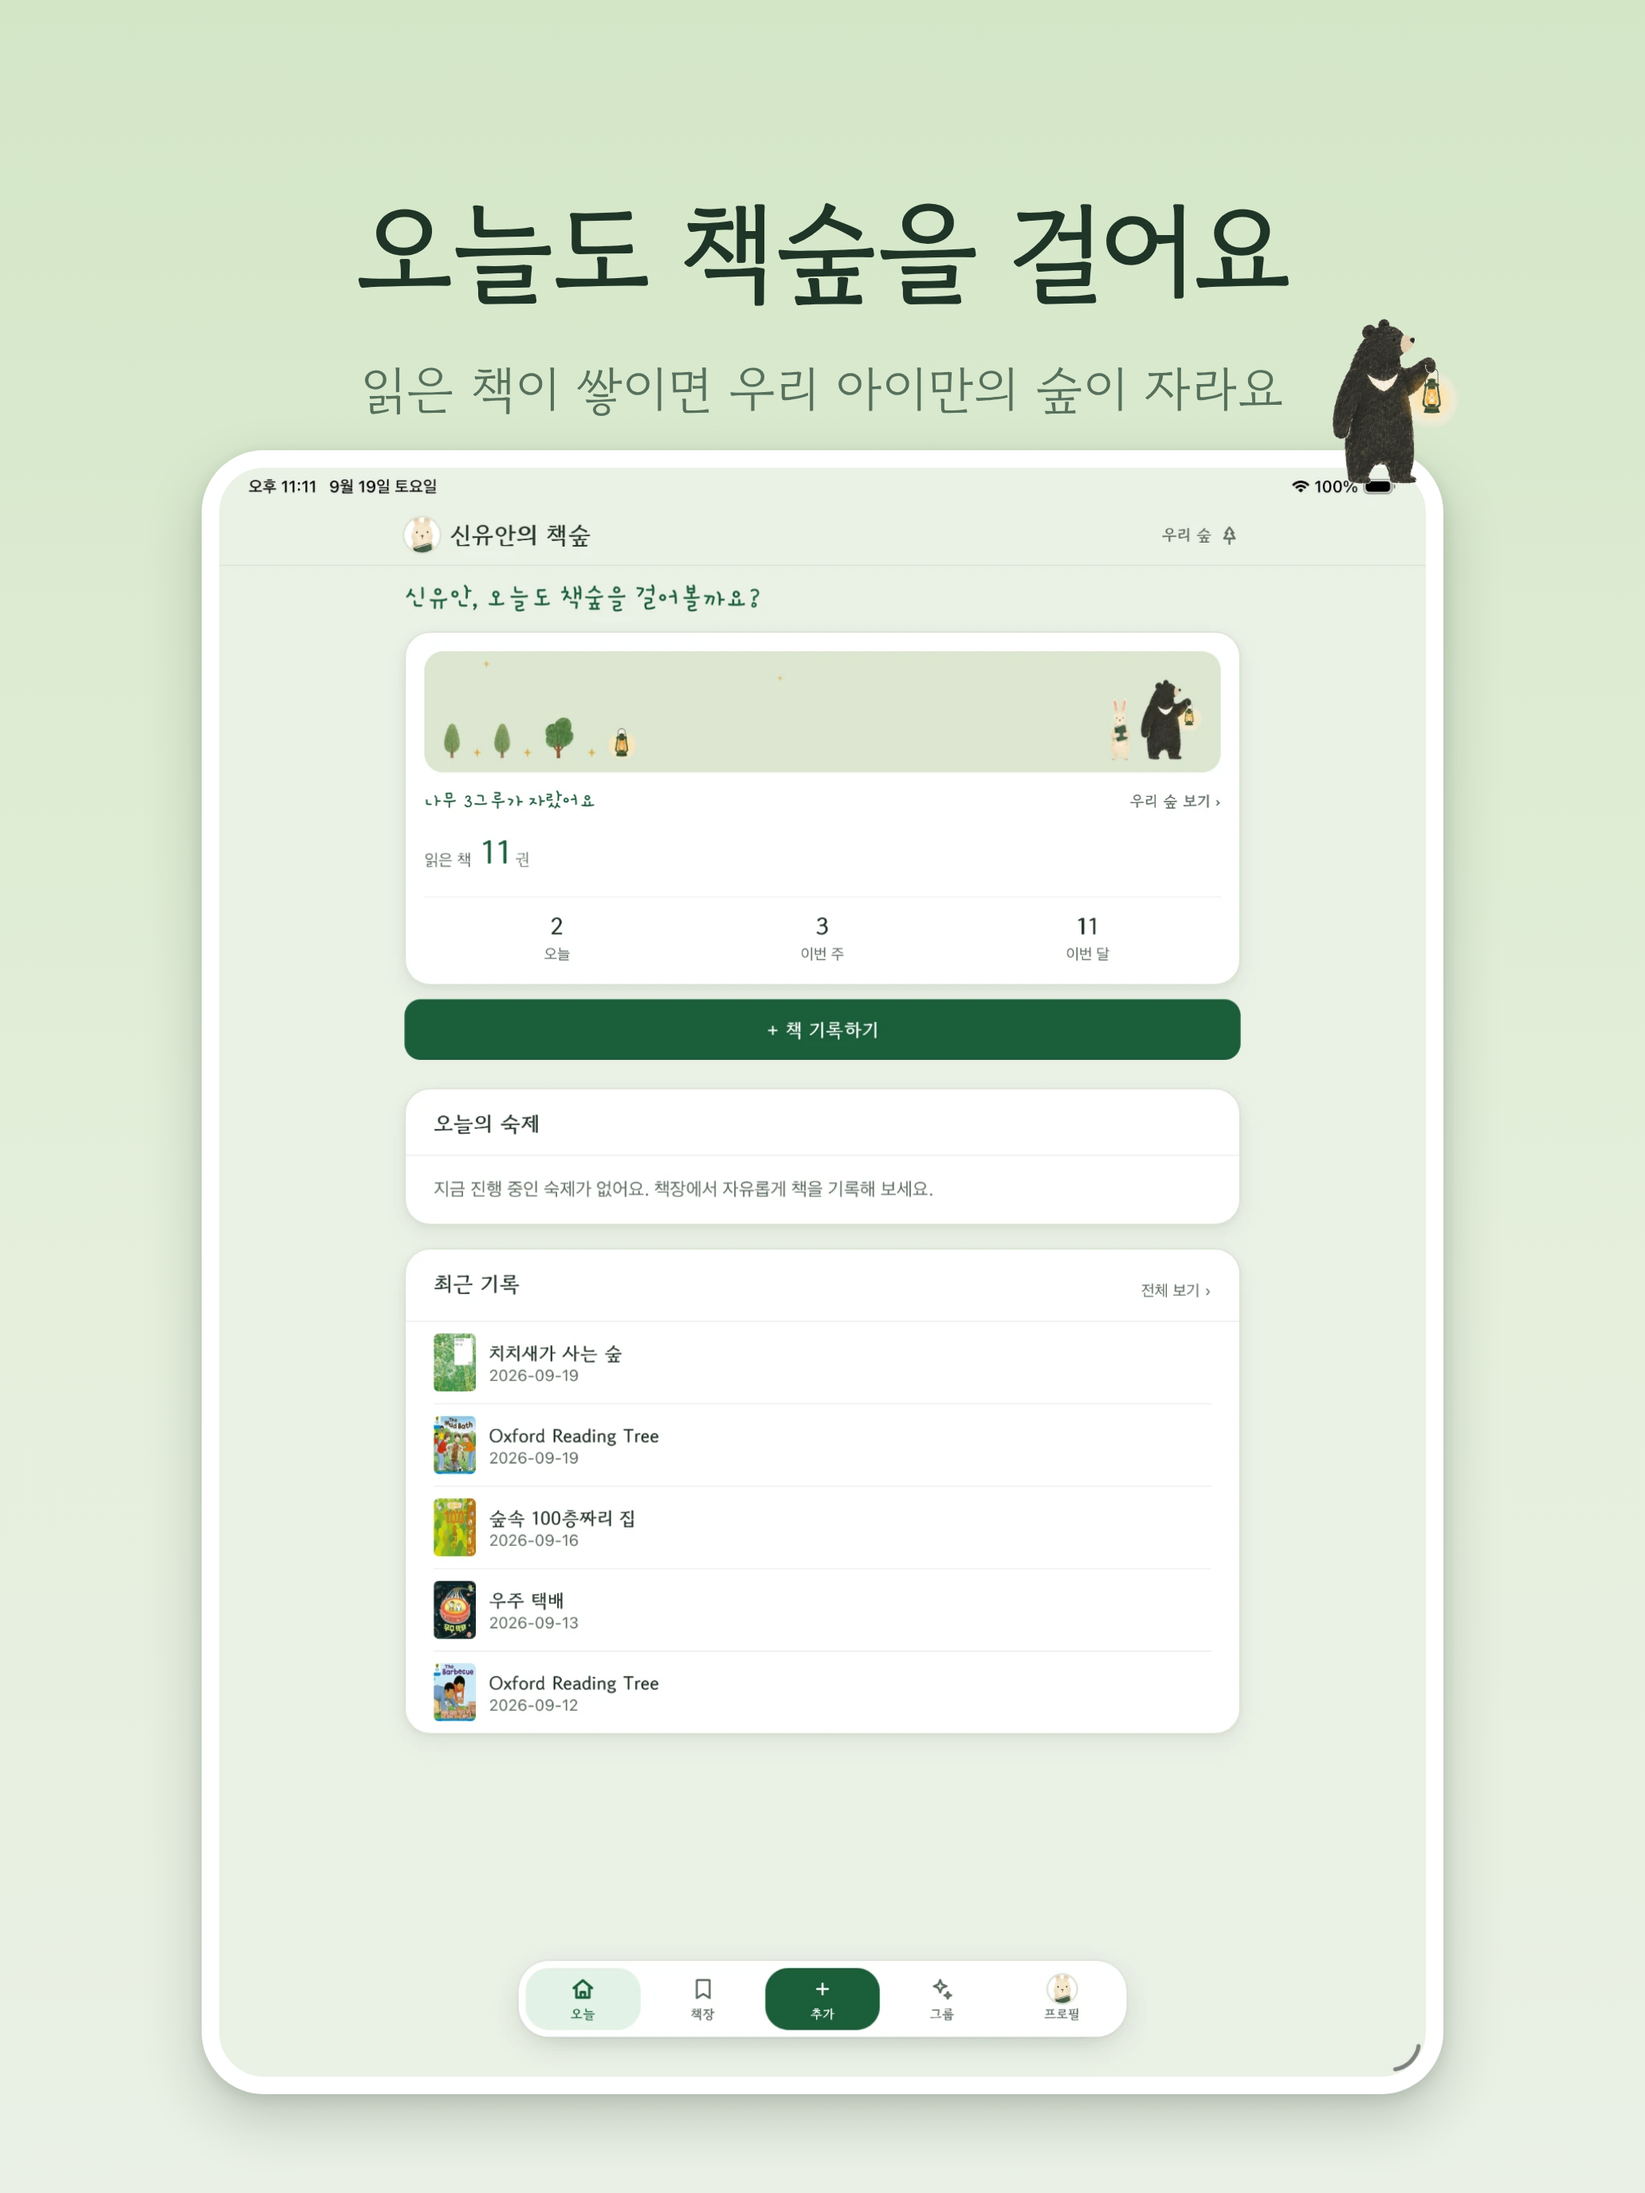
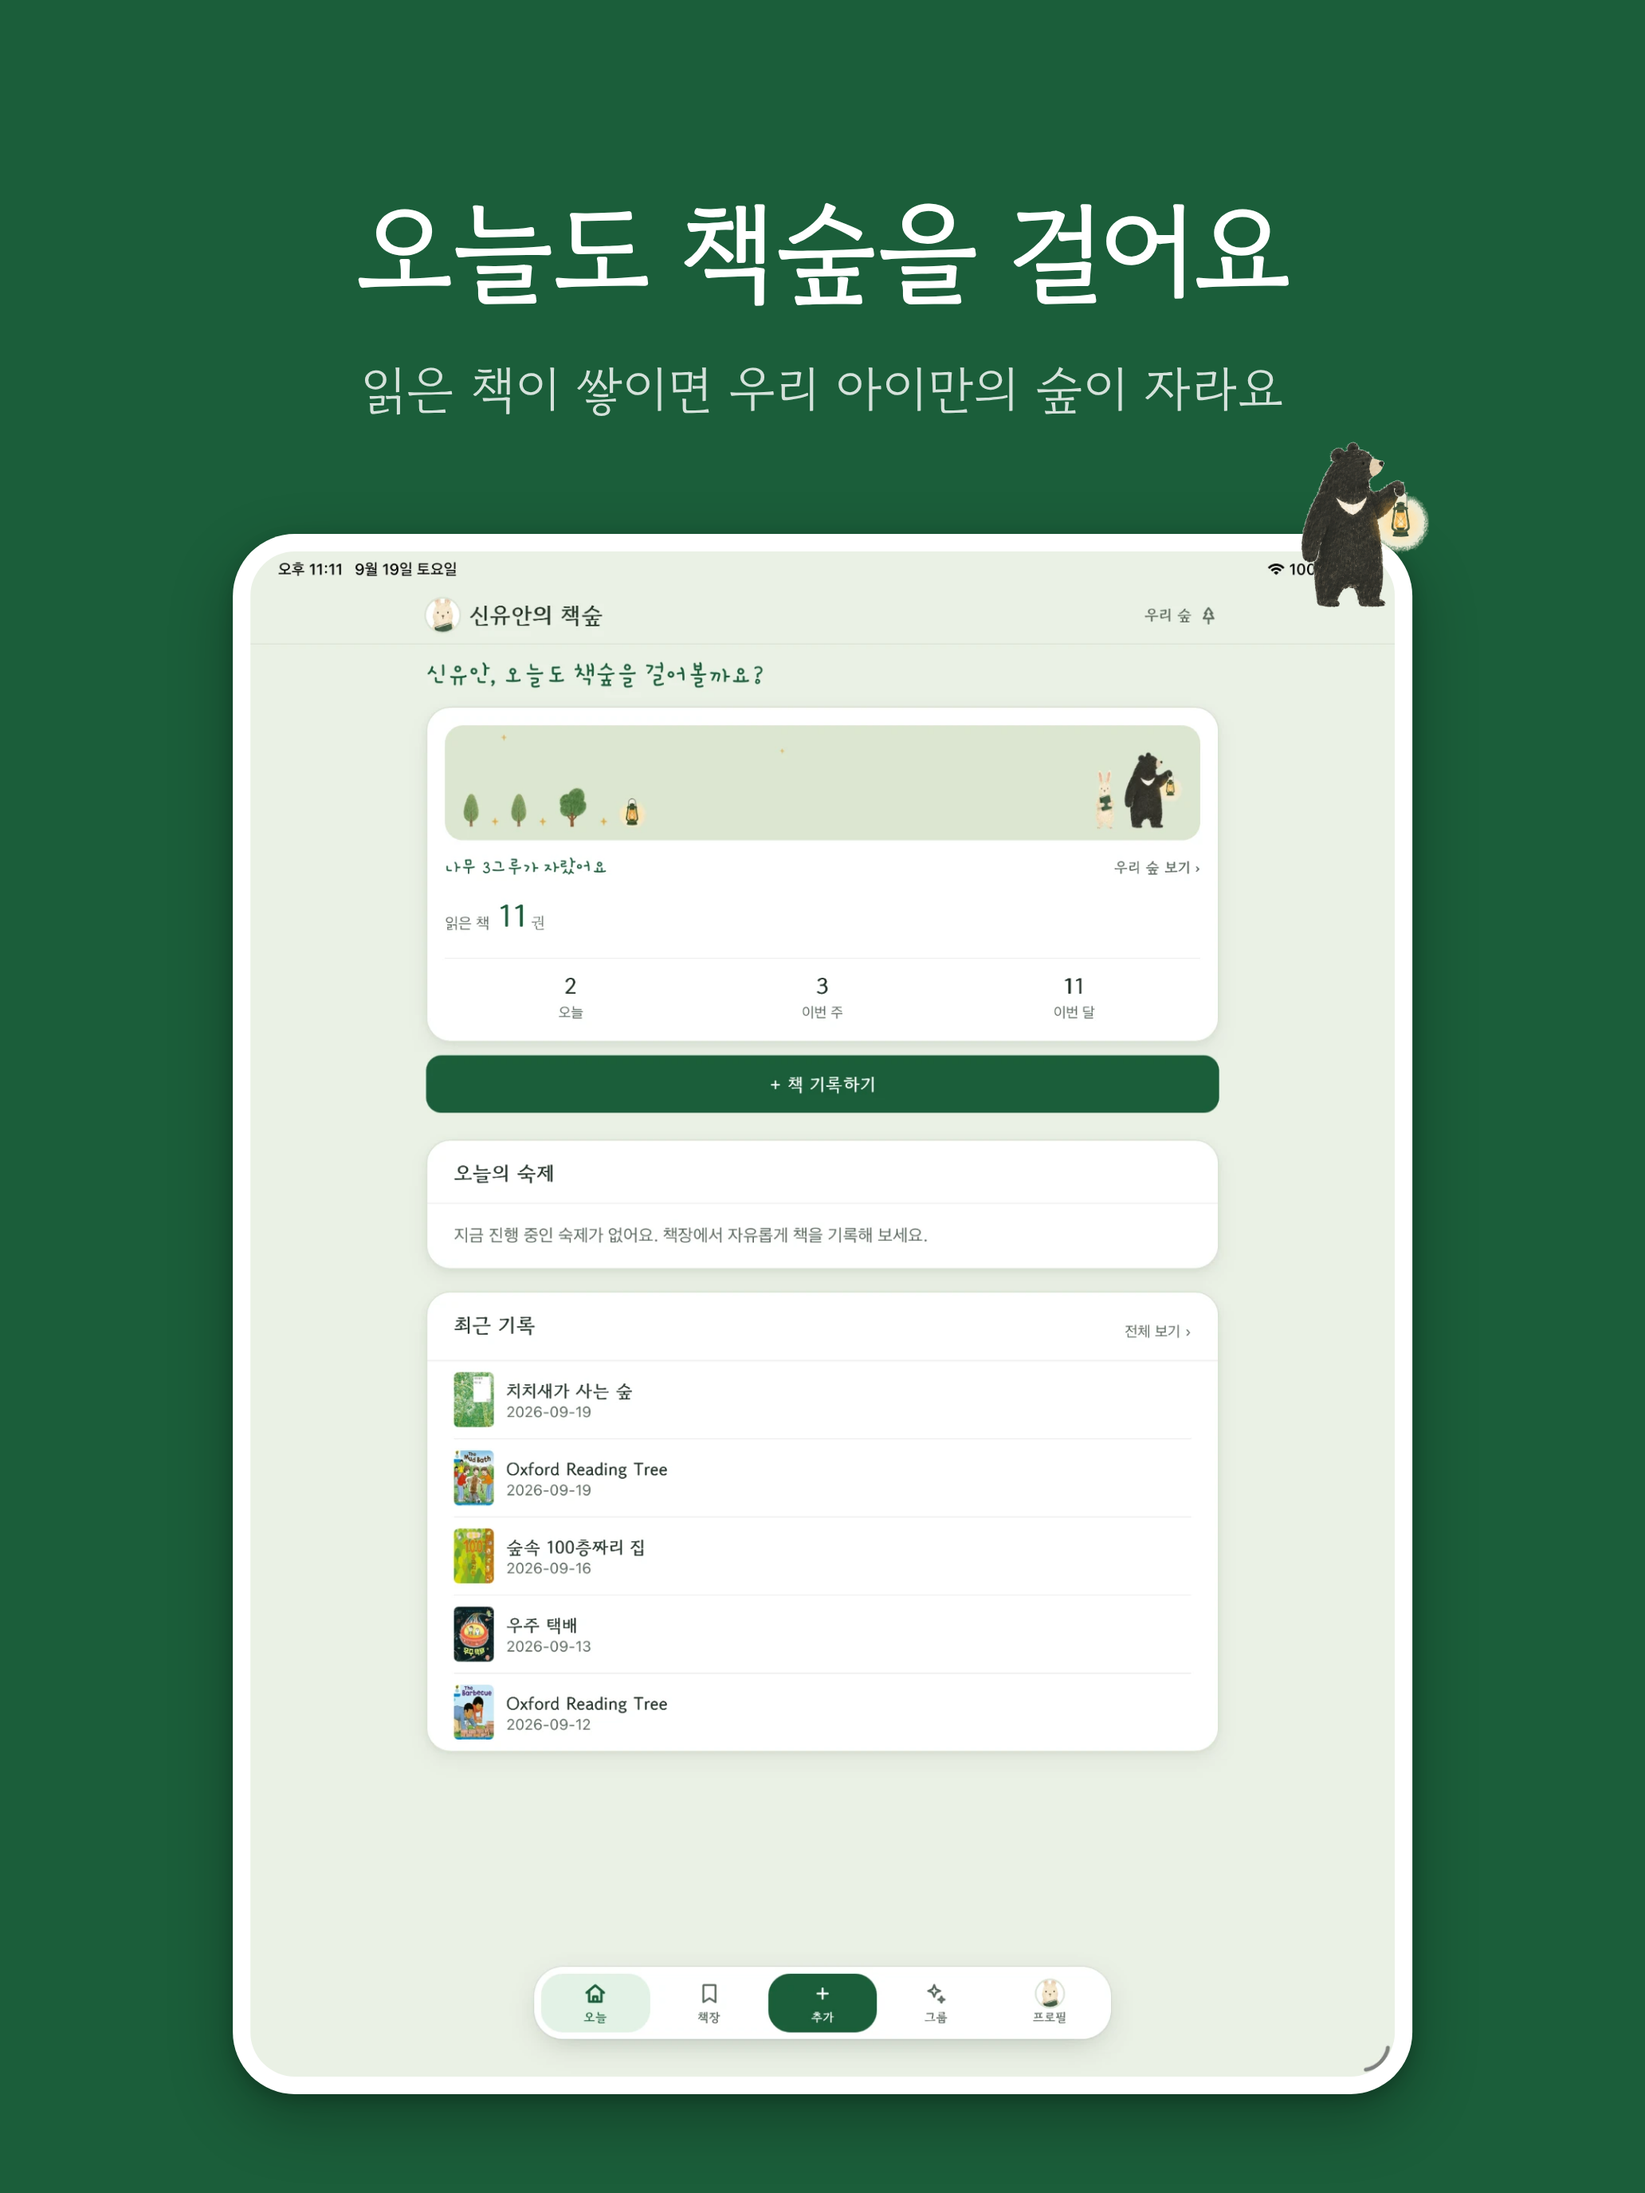
스토어 이미지: 진한 녹색 배경 + 흰 글씨, 아이패드 7장, 이메일 흐리게
Claude-Session: https://claude.ai/code/session_01BZsYGgJgCZUFJFReJtTQWH

diff --git a/CLAUDE.md b/CLAUDE.md
@@ -2454,3 +2454,4 @@ Capacitor 설정에는 이 옵션이 없어 네이티브에서 켰습니다 — 
 앱 화면 캡처를 흰 테두리 둥근 카드로 가운데 두고, 위에 큰 제목(Gowun Dodum, 획 두께 보강) + 작은 설명, 카드 오른쪽 위 모서리에 크레용 캐릭터가 걸터앉는 이미지를 만든다. 배경은 위에서 아래로 짙은 세이지 → 앱 배경색(`--paper`) 그라데이션.
 - **`scripts/store-shots/make.mjs`**: `node scripts/store-shots/make.mjs ipad|iphone`. 입력은 `docs/store-screenshots/src/<기기>/NN-키.확장자`(번호 순서 = 스토어 순서), 문구는 스크립트의 `SLIDES`에서 키로 찾음. 출력 `docs/store-screenshots/<기기>/NN-키.png` — iPad 13형 2064×2752, iPhone 6.9형 1320×2868. 카드가 제목과 겹치면 카드를 줄임. playwright는 전역 설치를 `NODE_PATH`로 찾고, 이 환경에선 `CHROMIUM_PATH=/opt/pw-browsers/chromium`.
 - 아이패드 5장(오늘·책장·기록 남기기·숙제·프로필) 완성. 아이폰 캡처는 사용자가 이어서 올릴 예정.
+- **후속(사용자 요청: "연한 그라데이션 싫어, 진한 녹색 + 흰 글씨, 화면 3개 더, 내 이메일은 흐리게")**: 배경을 `--point-deep`(#1B5E3A) 단색, 제목·설명을 흰 글씨로. 화면 추가로 아이패드 7장(오늘·책장·기록 남기기·우리 숲 3D·둘러보기·숙제·프로필 — 보내 준 셋 중 오늘 화면은 중복이라 뺌). `SLIDES`에 `blur: [[x, y, w, h]]`(캡처 대비 비율)를 두면 그 자리를 흐리게 덮는다 — 프로필 캡처의 로그인 이메일을 가림. 캐릭터는 설명 글자 아래·카드 오른쪽 위에 오도록 자리를 계산하고, 그만큼 카드를 줄여 겹치지 않게 했다.
